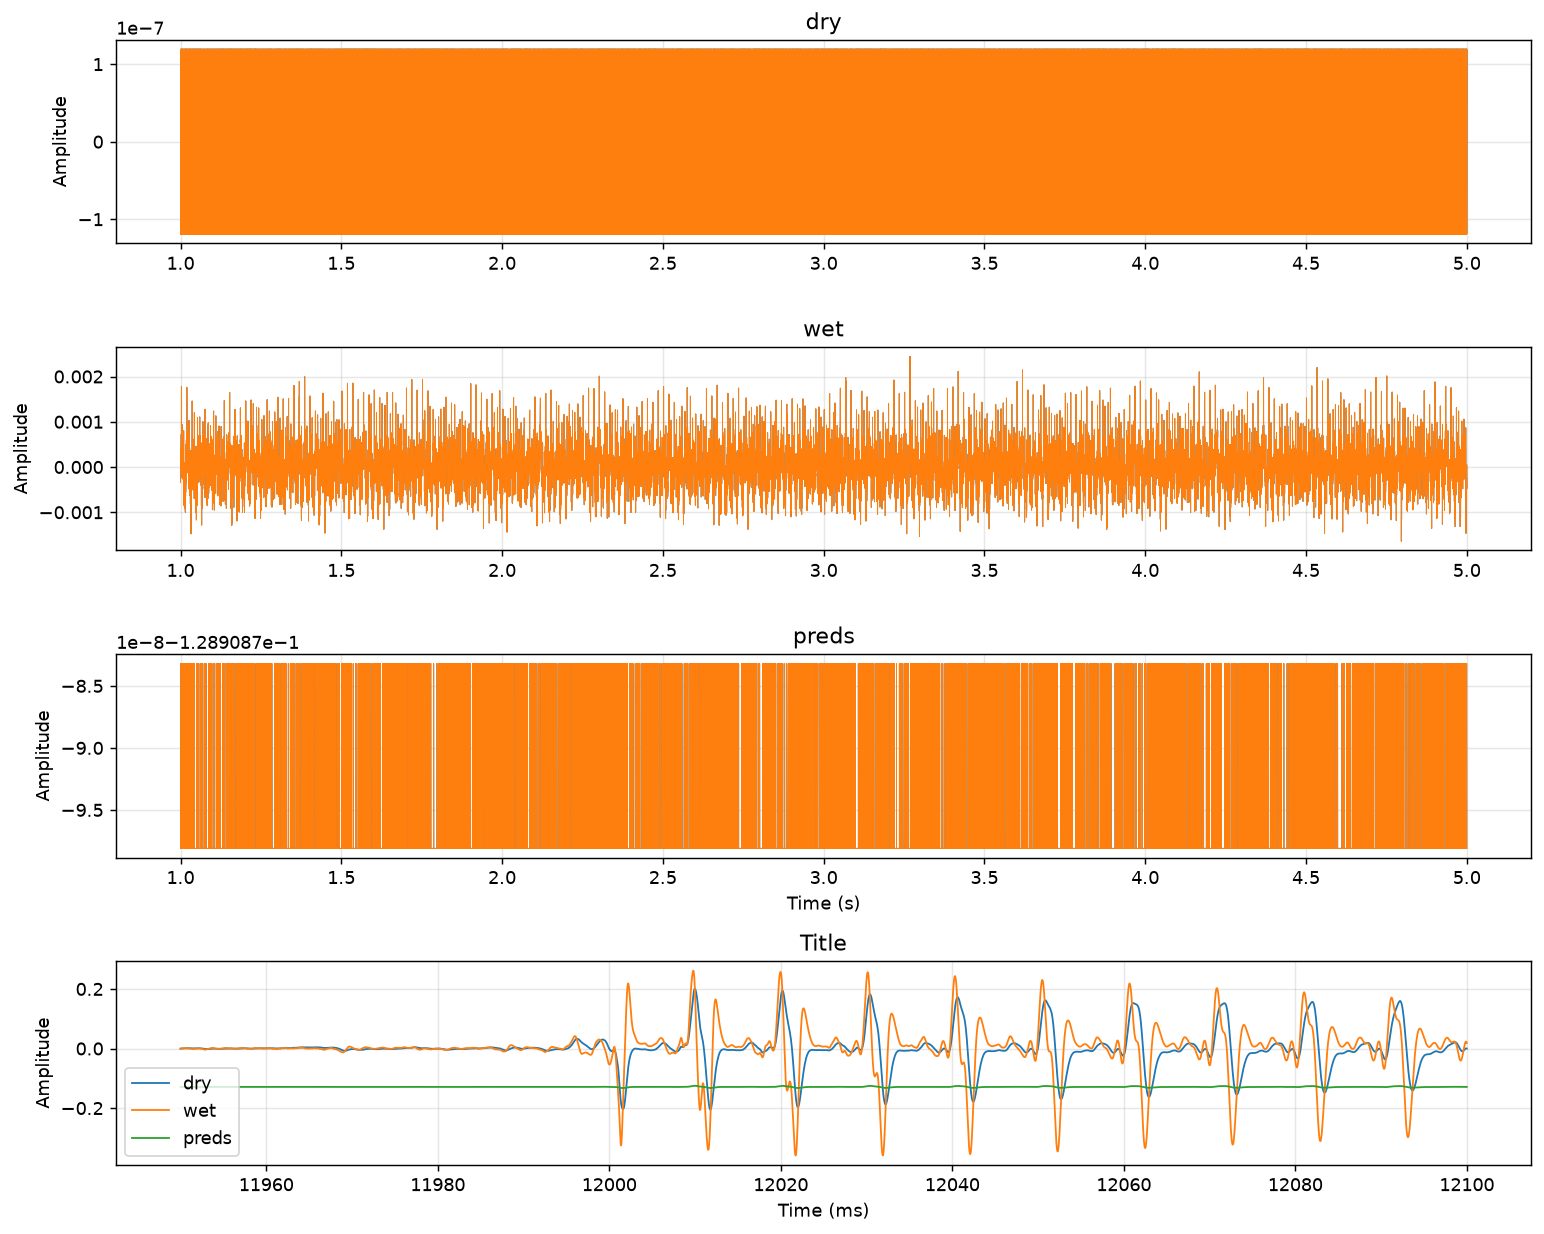
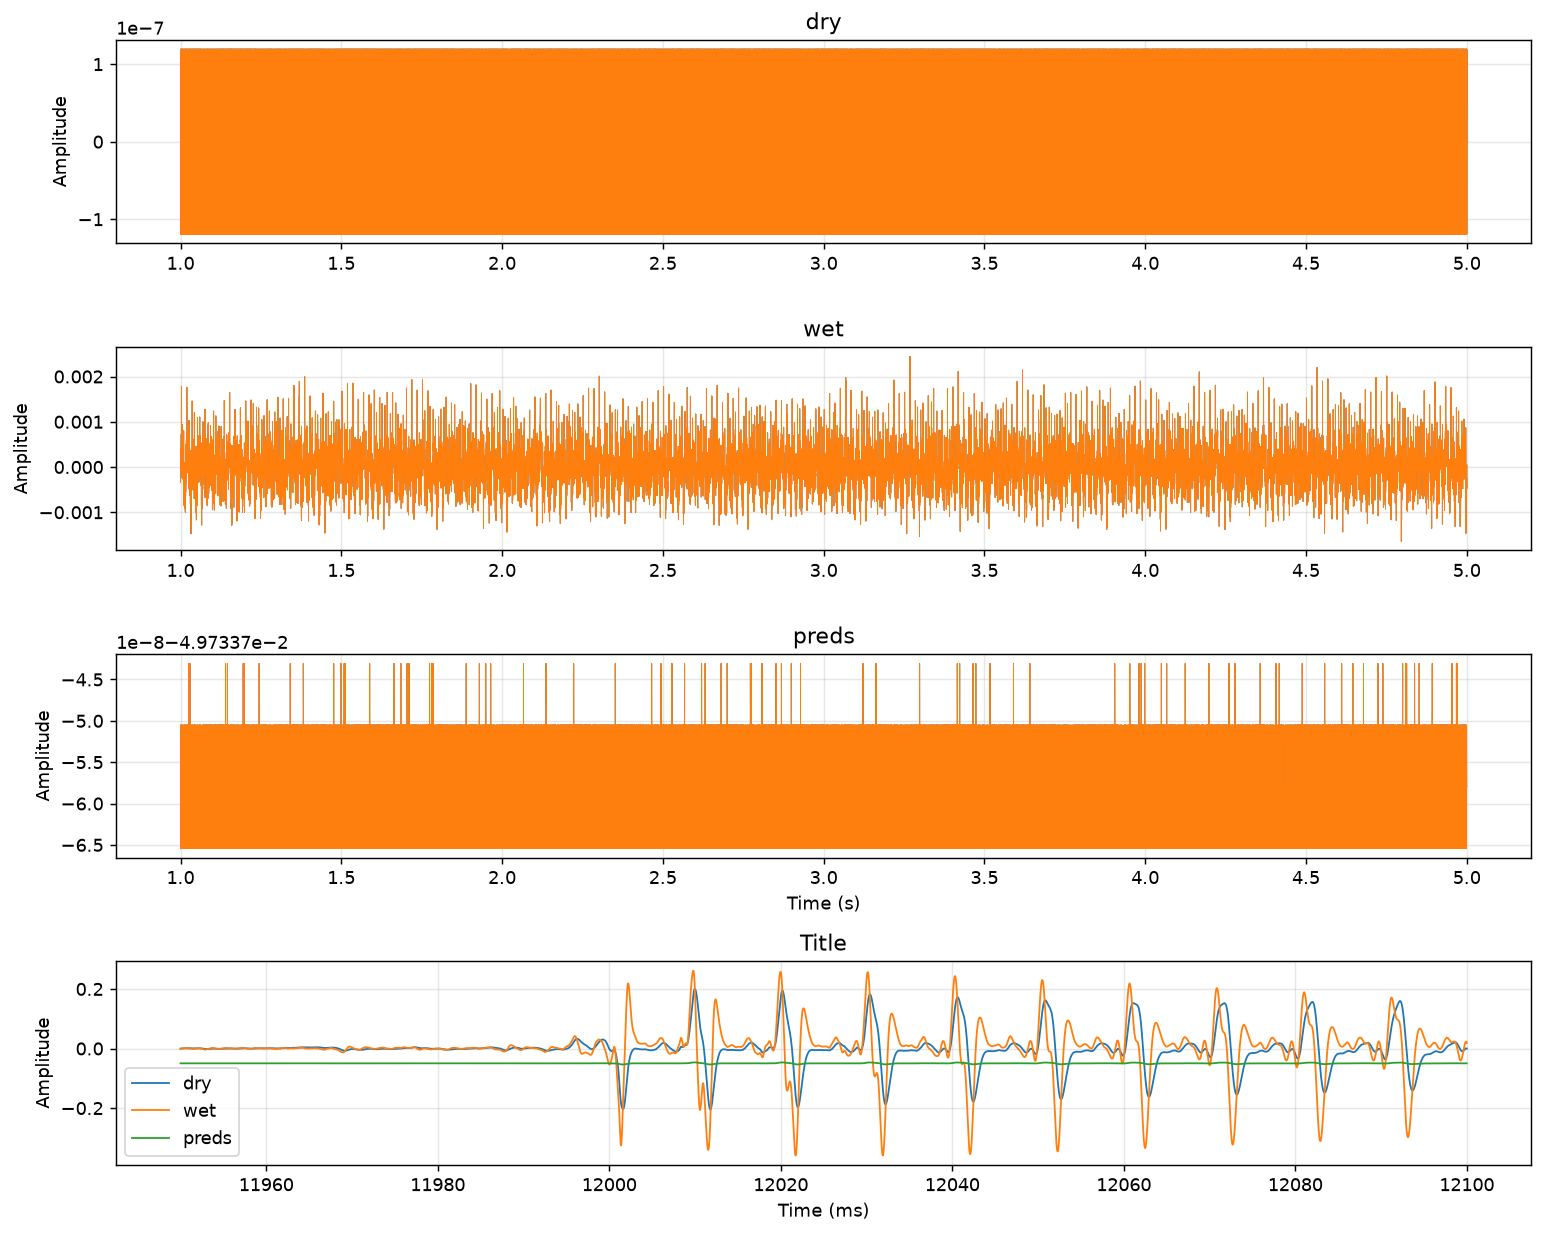
l

Changed region(s): [[0.0933, 0.4927, 0.9637, 0.6775], [0.0311, 0.5543, 0.0622, 0.6159], [0.0311, 0.6467, 0.0622, 0.6775]]

diff --git a/black_box/train/train.py b/black_box/train/train.py
@@ -210,11 +210,11 @@ if __name__ == '__main__':
     # print("Fit with X-Validation")
     # gain_model.cross_validate(full_dataset)
     # gain_model.save(f'/home/ubuntu/dsp-modeler/black_box/model/models/gain_model')
-    # gain_model = GainModel(param_configs)
-    # gain_model.load('/home/ubuntu/dsp-modeler/black_box/model/models/gain_model/2026-08-18_20-17/gain_model.npz')
+    gain_model = GainModel(param_configs)
+    gain_model.load('/home/ubuntu/dsp-modeler/black_box/model/models/gain_model/2026-08-18_20-17/gain_model.npz')
 
-    example_dataset = DataSet(
-        '/home/ubuntu/dsp-modeler/black_box/data/train_single/manifest.jsonl', 
+    training_set = DataSet(
+        '/home/ubuntu/dsp-modeler/black_box/data/train/manifest.jsonl', 
         '/home/ubuntu/dsp-modeler/data/input/input.wav', 
         '/home/ubuntu/dsp-modeler/data/outputs', 
         chunk_seconds, 
@@ -223,18 +223,30 @@ if __name__ == '__main__':
         silent_lead_in_seconds=silent_lead_in_seconds, 
         denoise_wet = denoise_wet
     )
-    # serieses=[]
-    # serieses['dry'] = example_dataset[0].get_dry()
-    # serieses['pregain_wet'] = example_dataset[0].get_dry()
-    # example_dataset.calulcate_segments_gains(gain_model)
-    #example_dataset.calulcate_segments_noise_profile()
-    # serieses['postgain_wet'] = example_dataset[0].get_wet()
-    # eval.plot_waveforms(serieses, 96000, f'/home/ubuntu/dsp-modeler/black_box/model/models/gain_model/2026-08-18_20-17/eval_waveform.png',    chunk_seconds=2, zoom_seconds=0.05, title="half-time window")
+    training_set.compute_model_gain(gain_model)
+    training_set.add_model_gain()
+    training_set.calculate_noise_profiles()
+    training_set.denoise_wet_data()
+
+    validation_set = DataSet(
+        '/home/ubuntu/dsp-modeler/black_box/data/train/validation.jsonl', 
+        '/home/ubuntu/dsp-modeler/data/input/input.wav', 
+        '/home/ubuntu/dsp-modeler/data/outputs', 
+        chunk_seconds, 
+        param_names, 
+        param_configs, 
+        silent_lead_in_seconds=silent_lead_in_seconds, 
+        denoise_wet = denoise_wet
+    )
+    validation_set.compute_model_gain(gain_model)
+    validation_set.add_model_gain()
+    validation_set.calculate_noise_profiles()
+    validation_set.denoise_wet_data()
 
 
     train_manifest(
-        example_dataset,
-        example_dataset,
+        training_set,
+        validation_set,
         learning_rate=5e-4,
         epochs=10,
         warmup_samples=1000, # only applied to the first chunk -- state is cold there; every later chunk inherits an already-"settled" hidden state

diff --git a/black_box/train/dataviz.py b/black_box/train/dataviz.py
@@ -211,7 +211,7 @@ if __name__ == '__main__':
     # t_dn_g_r.add_constant_gain(t_dn_g_r.compute_rms_gain())
 
     t_p = deepcopy(t)
-    t_p = Track.from_data(96000, chunk_seconds, t_p.get_params(), dry_data=t_p.get_dry(), wet_data=None)
+    t_p = Track.from_data(96000, chunk_seconds, {'d': 4.0, 'f': 4.0, 'v': 4.0}, dry_data=t_p.get_dry(), wet_data=None)
     t_p = model.predict_track(t_p, device, param_names, param_configs, chunk_seconds, sr=96000, out_path='/home/ubuntu/dsp-modeler/data/predictions/p.wav')
 
     waves = [

diff --git a/black_box/train/data_objects.py b/black_box/train/data_objects.py
@@ -339,3 +339,7 @@ class DataSet():
     def denoise_wet_data(self):
         for track in self.tracks:
             track.denoise_wet_data()
+
+    def add_model_gain(self):
+        for track in self.tracks:
+            track.add_model_gain()
